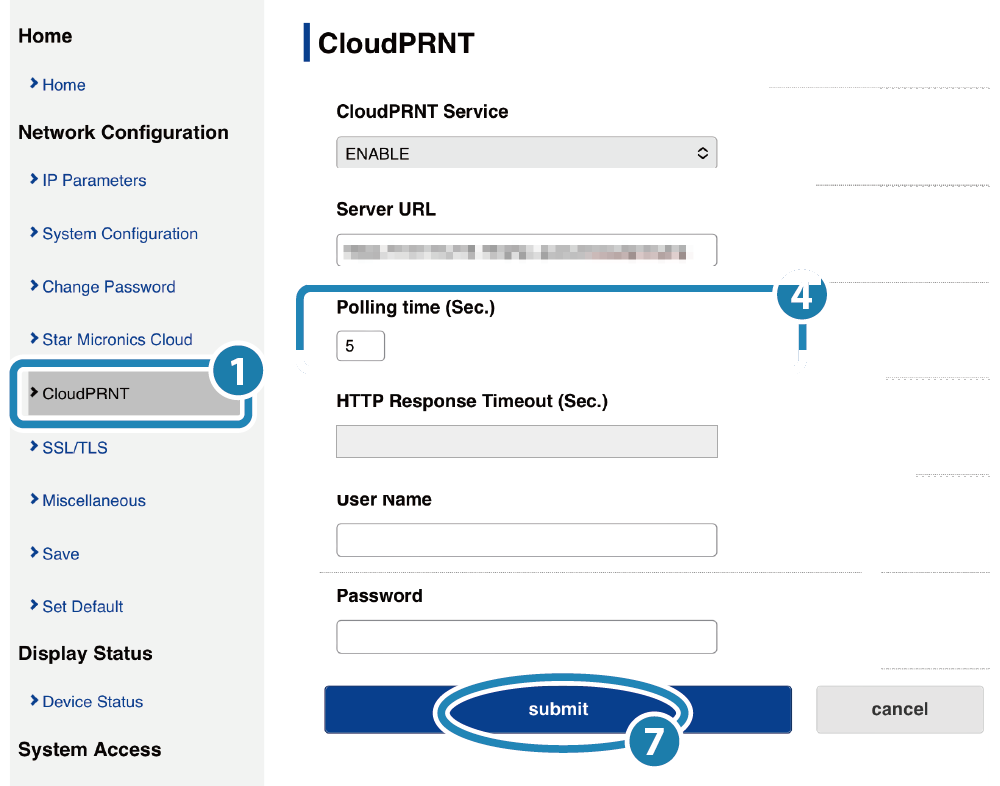
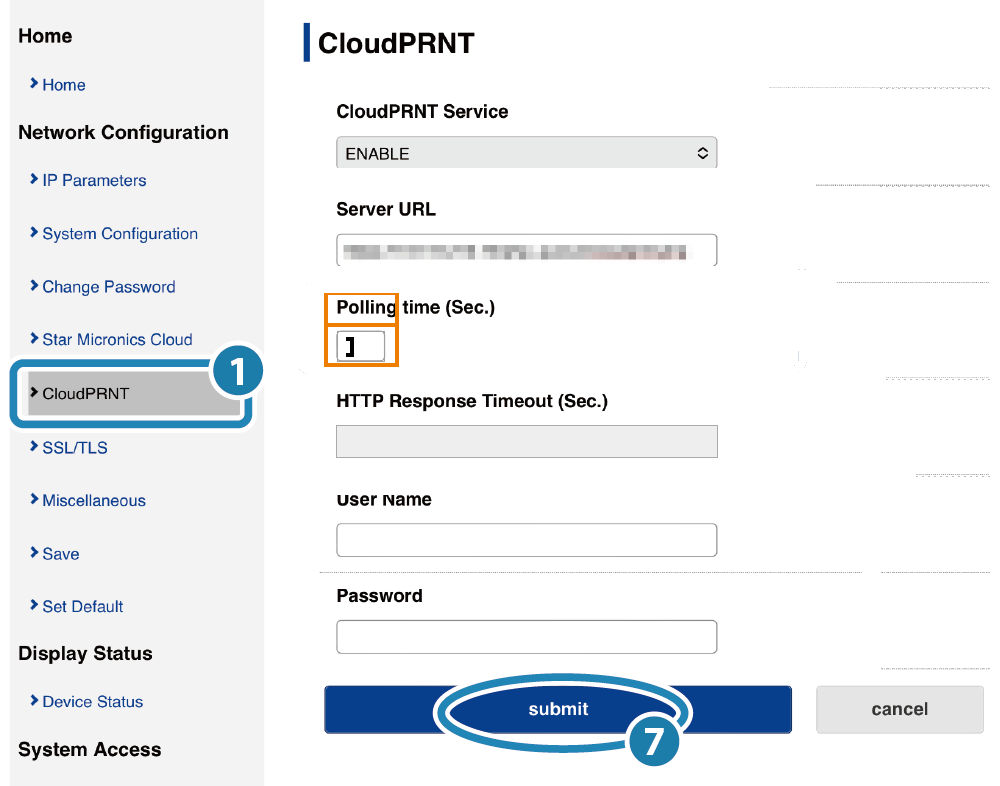
Set CloudPRNT polling time to one

Changed region(s): [[0.279, 0.3359, 0.837, 0.4885]]

diff --git a/docs/seltene-fragen/star-cloud-drucker-polling-time.md b/docs/seltene-fragen/star-cloud-drucker-polling-time.md
@@ -29,7 +29,7 @@ searchTerms:
 
 5. Öffnen Sie im Web Configuration-Menü den Bereich **CloudPRNT**.
 6. Prüfen Sie, ob **CloudPRNT Service** auf **ENABLE** steht.
-7. Ändern Sie den Wert im Feld **Polling time**.
+7. Ändern Sie den Wert im Feld **Polling time** auf `1`.
 8. Klicken oder tippen Sie auf **Submit**.
 
    ![CloudPRNT-Einstellungen mit Polling time und Submit](/screenshots/seltene-fragen/star-cloud-polling/cloudprnt-einstellungen.png)
